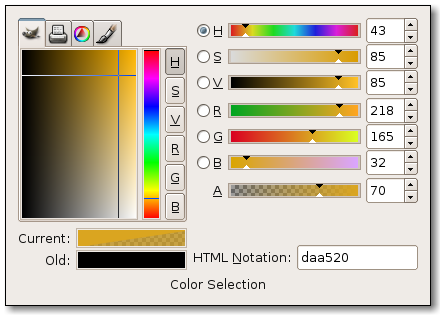
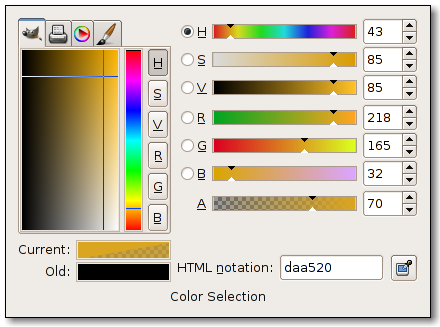
libgimpwidgets/libgimpwidgets-docs.sgml
2006-09-07  Sven Neumann  <sven@gimp.org>

	* libgimpwidgets/libgimpwidgets-docs.sgml
	* libgimpwidgets/libgimpwidgets-sections.txt
	* libgimpwidgets/libgimpwidgets.types
	* tools/widgets.c: added GimpHintBox and GIMP_STOCK_HEAL_TOOL.

	* libgimpwidgets/images/*.png: updated screenshots.

	* libgimpwidgets/tmpl/gimphintbox.sgml: new file.

	* libgimpwidgets/tmpl/gimpstock.sgml: added GIMP_STOCK_HEAL_TOOL.

Former-commit-id: ff555bb19c1f1ee5743a7fe6a0246ed2e60f12f7

diff --git a/devel-docs/tools/widgets.c b/devel-docs/tools/widgets.c
@@ -2347,6 +2347,38 @@ begin_function
 specifier|static
 name|WidgetInfo
 modifier|*
+DECL|function|create_hint_box (void)
+name|create_hint_box
+parameter_list|(
+name|void
+parameter_list|)
+block|{
+name|GtkWidget
+modifier|*
+name|box
+init|=
+name|gimp_hint_box_new
+argument_list|(
+literal|"This is a user hint."
+argument_list|)
+decl_stmt|;
+return|return
+name|new_widget_info
+argument_list|(
+literal|"gimp-hint-box"
+argument_list|,
+name|box
+argument_list|,
+name|MEDIUM
+argument_list|)
+return|;
+block|}
+end_function
+
+begin_function
+specifier|static
+name|WidgetInfo
+modifier|*
 DECL|function|create_int_combo_box (void)
 name|create_int_combo_box
 parameter_list|(
@@ -3581,6 +3613,16 @@ argument_list|(
 name|retval
 argument_list|,
 name|create_frame
+argument_list|()
+argument_list|)
+expr_stmt|;
+name|retval
+operator|=
+name|g_list_append
+argument_list|(
+name|retval
+argument_list|,
+name|create_hint_box
 argument_list|()
 argument_list|)
 expr_stmt|;
